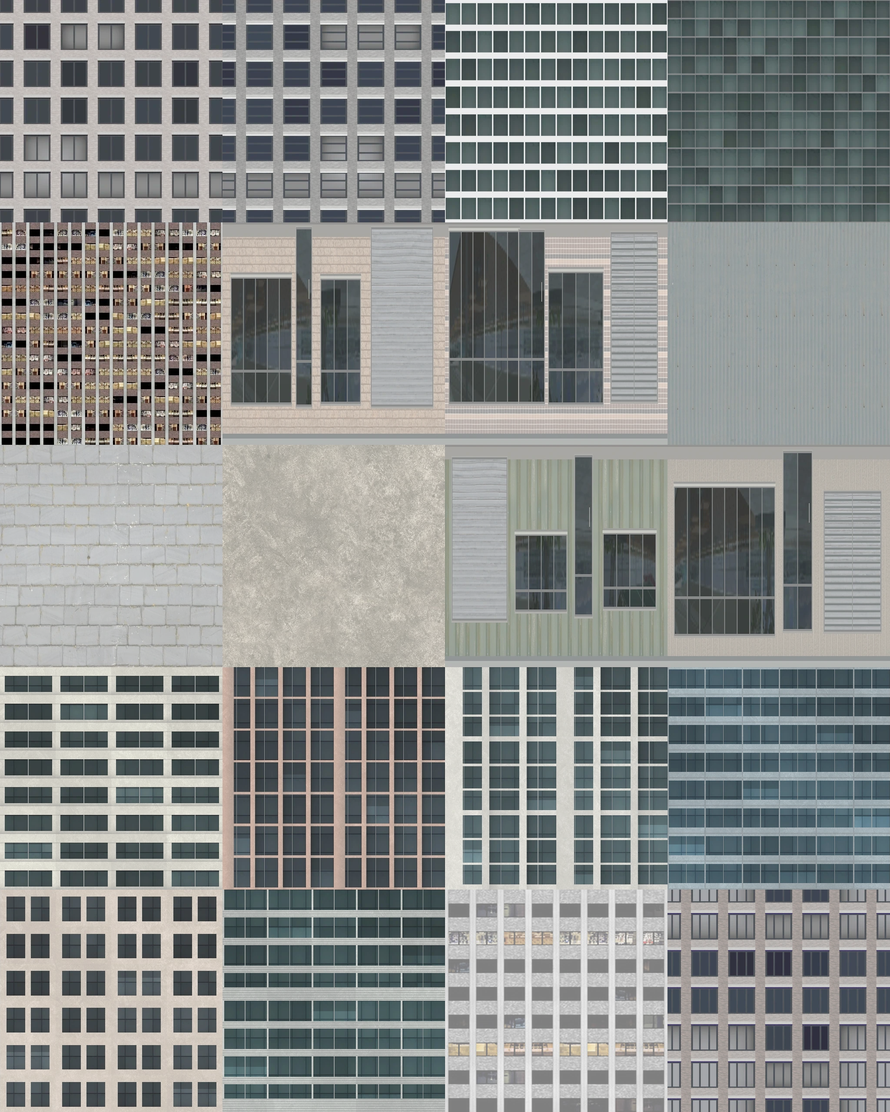
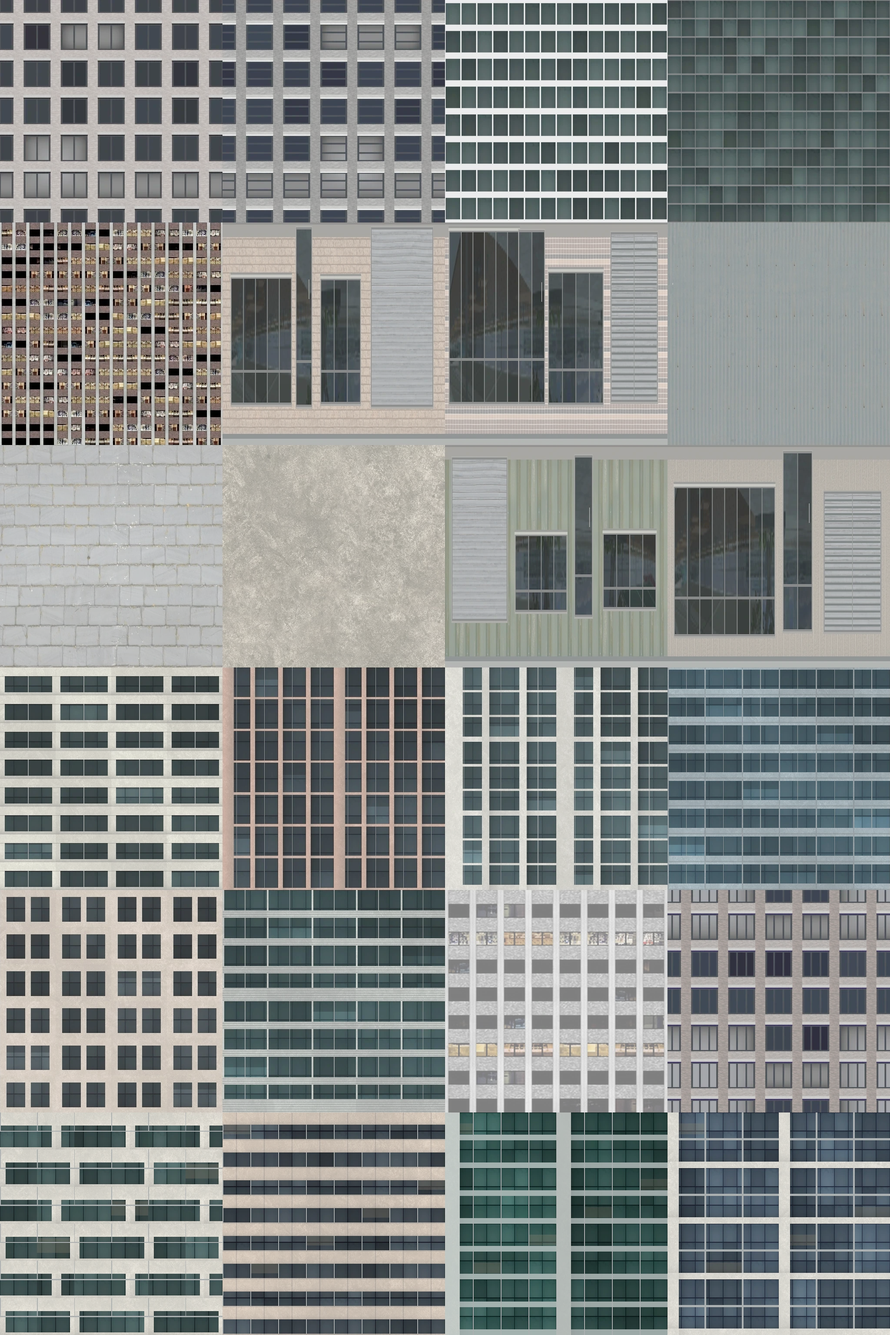
Vary the large-scale cladding of distant map buildings

diff --git a/web/src/viewer/buildingFinishes.ts b/web/src/viewer/buildingFinishes.ts
@@ -2,7 +2,7 @@ import * as THREE from 'three';
 import atlasUrl from '../assets/geography/facades.webp';
 
 const columns = 4;
-const rows = 5;
+const rows = 6;
 const layers = columns * rows;
 
 /** Wall and roof finishes. The alpha channel distinguishes glazing from cladding. */
@@ -65,14 +65,17 @@ export const buildingFinishShader = /* glsl */ `
   uniform highp sampler2DArray buildingFinishes;
   uniform bool buildingFinishesReady;
   // Retain the physical floor pitch even where multiple floors share a belt or pier.
-  const vec2 finishSpan[20] = vec2[20](
+  const vec2 finishSpan[24] = vec2[24](
     vec2(18.0,21.6), vec2(17.4,21.0), vec2(22.4,27.2), vec2(20.0,26.4), vec2(27.0,34.0),
     vec2(15.0,3.55), vec2(14.4,3.55), vec2(6.4,5.0), vec2(3.4), vec2(5.5), vec2(16.2,3.55),
     vec2(14.4,3.55), vec2(18.0,28.4), vec2(24.0,24.85), vec2(25.2,31.95), vec2(21.6,28.4),
-    vec2(18.4,21.3), vec2(21.0,28.4), vec2(14.4,28.4), vec2(18.0,21.3));
+    vec2(18.4,21.3), vec2(21.0,28.4), vec2(14.4,28.4), vec2(18.0,21.3),
+    vec2(24.0,20.4), vec2(28.8,28.4), vec2(24.0,29.6), vec2(21.6,28.4));
   // Punched-window, ribbon and curtain-wall buildings each draw from their own palette.
-  const int wallLayers[18] = int[18](
-    0, 12, 14, 16, 1, 13,    2, 17, 12, 15, 1, 14,    3, 4, 15, 13, 17, 2);
+  const int wallLayers[36] = int[36](
+     0, 12, 14, 16,  1, 13, 20, 23, 19, 21,  4, 18,
+     2, 17, 12, 15,  1, 14, 21, 18, 20, 22,  0, 23,
+     3,  4, 15, 13, 17,  2, 22, 19, 23, 18, 16, 21);
   vec4 buildingFinish(vec3 pos, vec2 tangent, float style) {
     float seed = fract(style);
     int index;
@@ -80,10 +83,10 @@ export const buildingFinishShader = /* glsl */ `
       int frontage = int(seed * 4.0);
       index = frontage < 2 ? 5 + frontage : 8 + frontage;
     } else {
-      // Finer seed bits vary the glazing within a window family, including on
-      // neighbouring buildings whose original window and floor pitches are similar.
-      int detail = int(seed * 128.0) % 8;
-      index = detail == 1 ? 18 : detail == 4 ? 19 : wallLayers[int(floor(style)) * 6 + int(seed * 6.0)];
+      // Use all ten footprint seed bits. Window spacing and brightness use
+      // the fractional value directly, so their order does not dictate the finish.
+      int slot = int(seed * 1024.0) % 12;
+      index = wallLayers[int(floor(style)) * 12 + slot];
     }
     vec2 metres = vec2(dot(pos.xz,tangent),pos.y);
     vec4 sampleColor = texture(buildingFinishes,vec3(metres / finishSpan[index] + vec2(fract(17.0*seed),0.0),float(index)));

diff --git a/web/src/assets/geography/SOURCES.md b/web/src/assets/geography/SOURCES.md
@@ -11,4 +11,4 @@
 
 铺装表面图的 A 通道保存石材的存水倾向。用同一份 Granite Tile 04 的 1K 高度、OpenGL 法线和粗糙度 PNG，依次作为输入传给 `scenes/marina-bay/scripts/bake-paver-surface.py`，第四个参数指定输出 WebP。石缝和湿边采用周期滤波离线烘焙，填入 128 至 252 的范围；湿痕的米制分布由材质控制。[风化方法参考 hypbr](https://github.com/wrong-nebula/hypbr/blob/58beced3de0d58a827c20a166789be9770855cbb/hypbr/weathering.py)
 
-地图拉伸建筑共用二十层纹理，七层高楼窗墙取自 ambientCG 的 Facade018A、Facade019A、Facade006、Facade005、Facade013、Facade015 和 Facade020A。Facade015 的横向楼板和 Facade020A 的深色竖柱按各自的楼层间距重复。另有六层中高楼立面使用阳台凹槽、陶板竖条、石材立柱、蓝色层间板、成对窗及横向百叶。玻璃和混凝土纹理分别来自 Facade005 和 Concrete Floor 02。四层街墙用砖墙、面砖、压型钢板和肋纹混凝土组合窗带、门扇和百叶。窗玻璃采样场景内的庭院日光。三层屋面分别为金属板、灰瓦和混凝土。墙面、金属和屋面扫描素材为 CC0，开间和楼层尺寸为视觉近似。[ambientCG](https://ambientcg.com/list?search=facade) · [Poly Haven 各材质来源](../../../../scenes/marina-bay/references/skyline-finishes/footprints.json)
+地图拉伸建筑共用二十四层纹理，七层高楼窗墙取自 ambientCG 的 Facade018A、Facade019A、Facade006、Facade005、Facade013、Facade015 和 Facade020A。Facade015 的横向楼板和 Facade020A 的深色竖柱按各自的楼层间距重复。另有六层中高楼立面使用阳台凹槽、陶板竖条、石材立柱、蓝色层间板、成对窗及横向百叶。新增四层采用错列阳台、砂岩横窗、带搪瓷竖板的青灰玻璃及跨两层的混凝土框架。涂层使用 RibbedFront 材质中的细微明暗。玻璃和混凝土纹理分别来自 Facade005 和 Concrete Floor 02。四层街墙用砖墙、面砖、压型钢板和肋纹混凝土组合窗带、门扇和百叶。窗玻璃采样场景内的庭院日光。三层屋面分别为金属板、灰瓦和混凝土。墙面、金属和屋面扫描素材为 CC0，开间和楼层尺寸为视觉近似。[ambientCG](https://ambientcg.com/list?search=facade) · [Poly Haven 各材质来源](../../../../scenes/marina-bay/references/skyline-finishes/footprints.json)

diff --git a/sdk/typescript/skills/web-scene-realism/references/assets-and-ground.md b/sdk/typescript/skills/web-scene-realism/references/assets-and-ground.md
@@ -20,6 +20,8 @@
 
 大批普通楼房可以按建筑标识或稳定的足迹特征分配外墙图集。一个楼体和它跨瓦片的各段共用同一选择。把窗带和石材拼缝按米制尺寸展开，在屋顶过渡到原屋面材质，使用独立遮罩控制窗面反光。固定机位重新加载后核对选材，再从街面与跨水全景检查楼群的重复感及绘制开销。
 
+评估远景纹理种类时，在同一张全景标出画面相邻、实际也相邻的独立楼体。把共用塔身的分段按同栋计数，比较这些邻楼有多少对使用同一立面。挑选在目标屏幕尺寸仍能区分的材质，例如厚实的浅色水平带、贯穿多层的竖板和双层框架。用显卡实际画出的材质编号复核，并以正常着色的同步漫游检查明暗和闪烁。
+
 远眺时若同一面墙在某层突然换了整套窗格，沿墙从低到高拾取几个点，将命中坐标与楼体各段的轮廓和高度核对。对确实上下相接且共用外墙边线的塔身，沿用同一套窗墙和米制贴图原点。独立塔楼可分别选材，裙楼和单独标色的楼层可保留材质变化。用横向移动的全景检查遮挡，再在瓦片接缝两侧复验。
 
 对单色建筑批量贴材质时，先核对场景里的实际来源和材质槽。分别点选参考画面中的墙面和屋面，按相同的生成方式定位整批模型。把已有实拍外墙的测绘楼体留在原材质路径。
